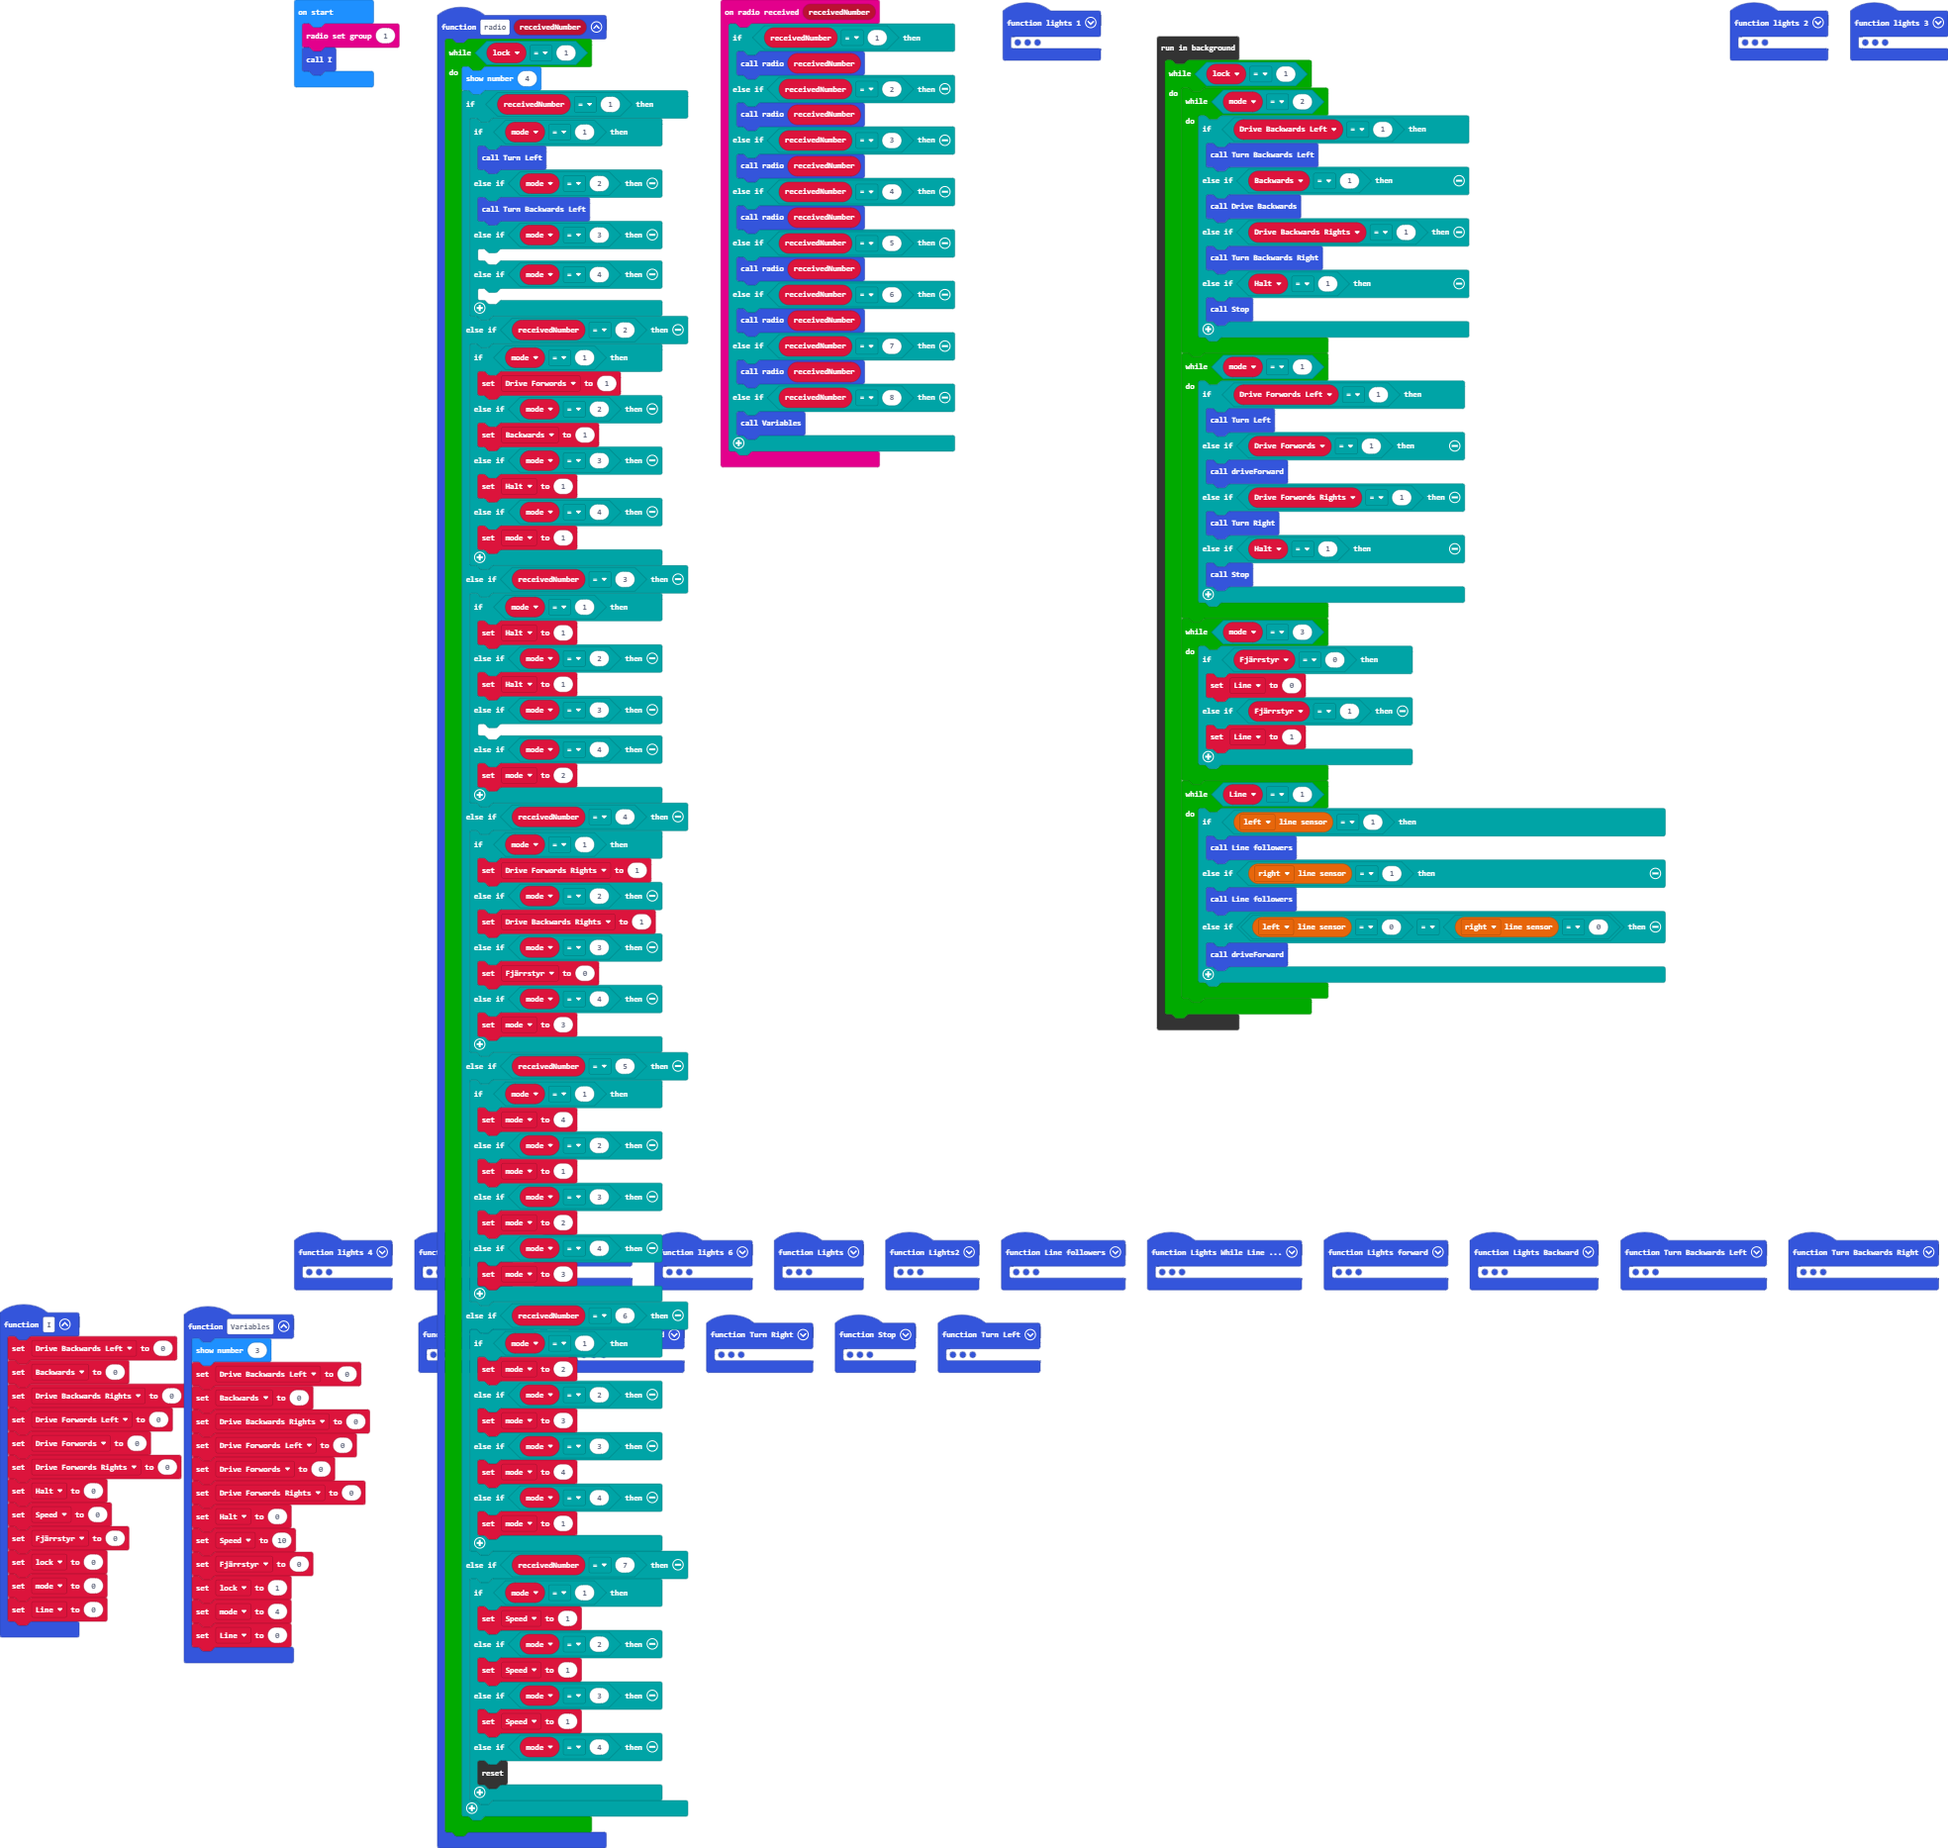
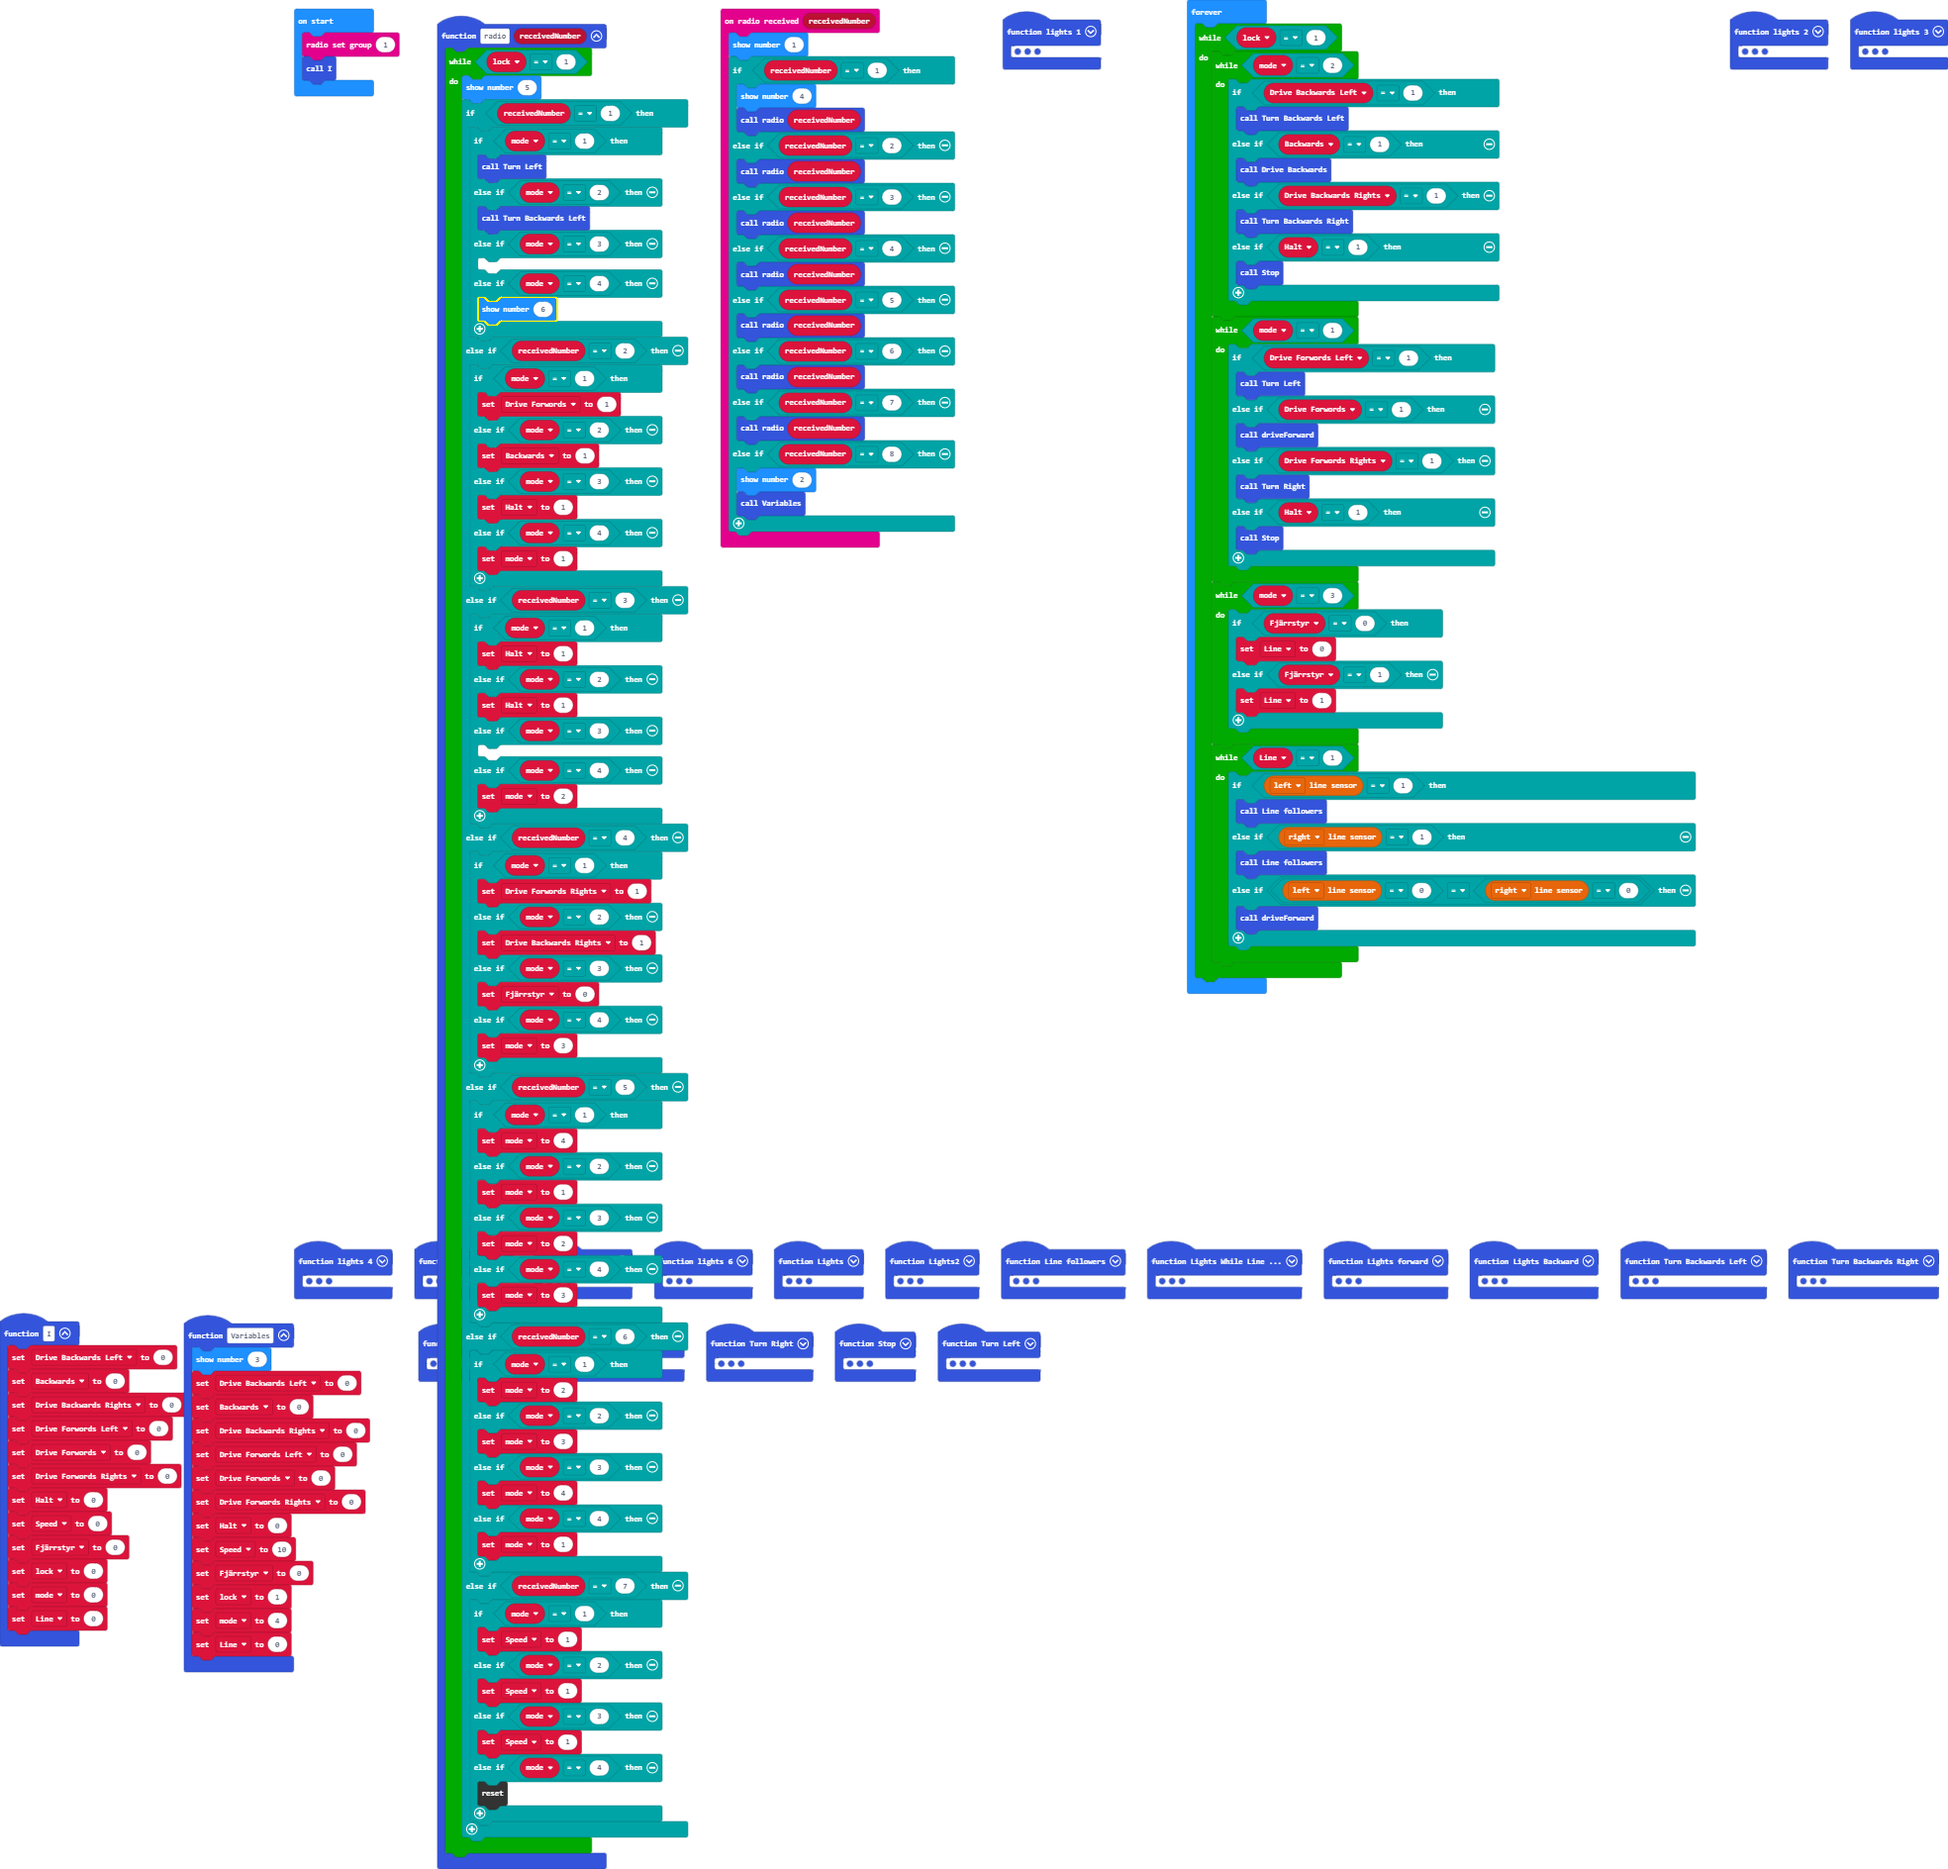
Update main.blocks, main.ts

Changed region(s): [[0.0, 0.0, 1.0, 0.963], [0.8679, 0.0, 1.0, 0.0621]]

diff --git a/main.ts b/main.ts
@@ -50,7 +50,9 @@ function lights_6 () {
     bitbot.ledClear()
 }
 radio.onReceivedNumber(function (receivedNumber) {
+    basic.showNumber(1)
     if (receivedNumber == 1) {
+        basic.showNumber(4)
         radio2(receivedNumber)
     } else if (receivedNumber == 2) {
         radio2(receivedNumber)
@@ -65,6 +67,7 @@ radio.onReceivedNumber(function (receivedNumber) {
     } else if (receivedNumber == 7) {
         radio2(receivedNumber)
     } else if (receivedNumber == 8) {
+        basic.showNumber(2)
         Variables()
     }
 })
@@ -151,7 +154,7 @@ function Lights2 () {
 }
 function radio2 (receivedNumber: number) {
     while (lock == 1) {
-        basic.showNumber(4)
+        basic.showNumber(5)
         if (receivedNumber == 1) {
             if (mode == 1) {
                 Turn_Left()
@@ -160,7 +163,7 @@ function radio2 (receivedNumber: number) {
             } else if (mode == 3) {
             	
             } else if (mode == 4) {
-            	
+                basic.showNumber(6)
             }
         } else if (receivedNumber == 2) {
             if (mode == 1) {
@@ -338,7 +341,7 @@ let mode = 0
 let Led = 0
 radio.setGroup(1)
 I()
-control.inBackground(function () {
+basic.forever(function () {
     while (lock == 1) {
         while (mode == 2) {
             if (Drive_Backwards_Left == 1) {
